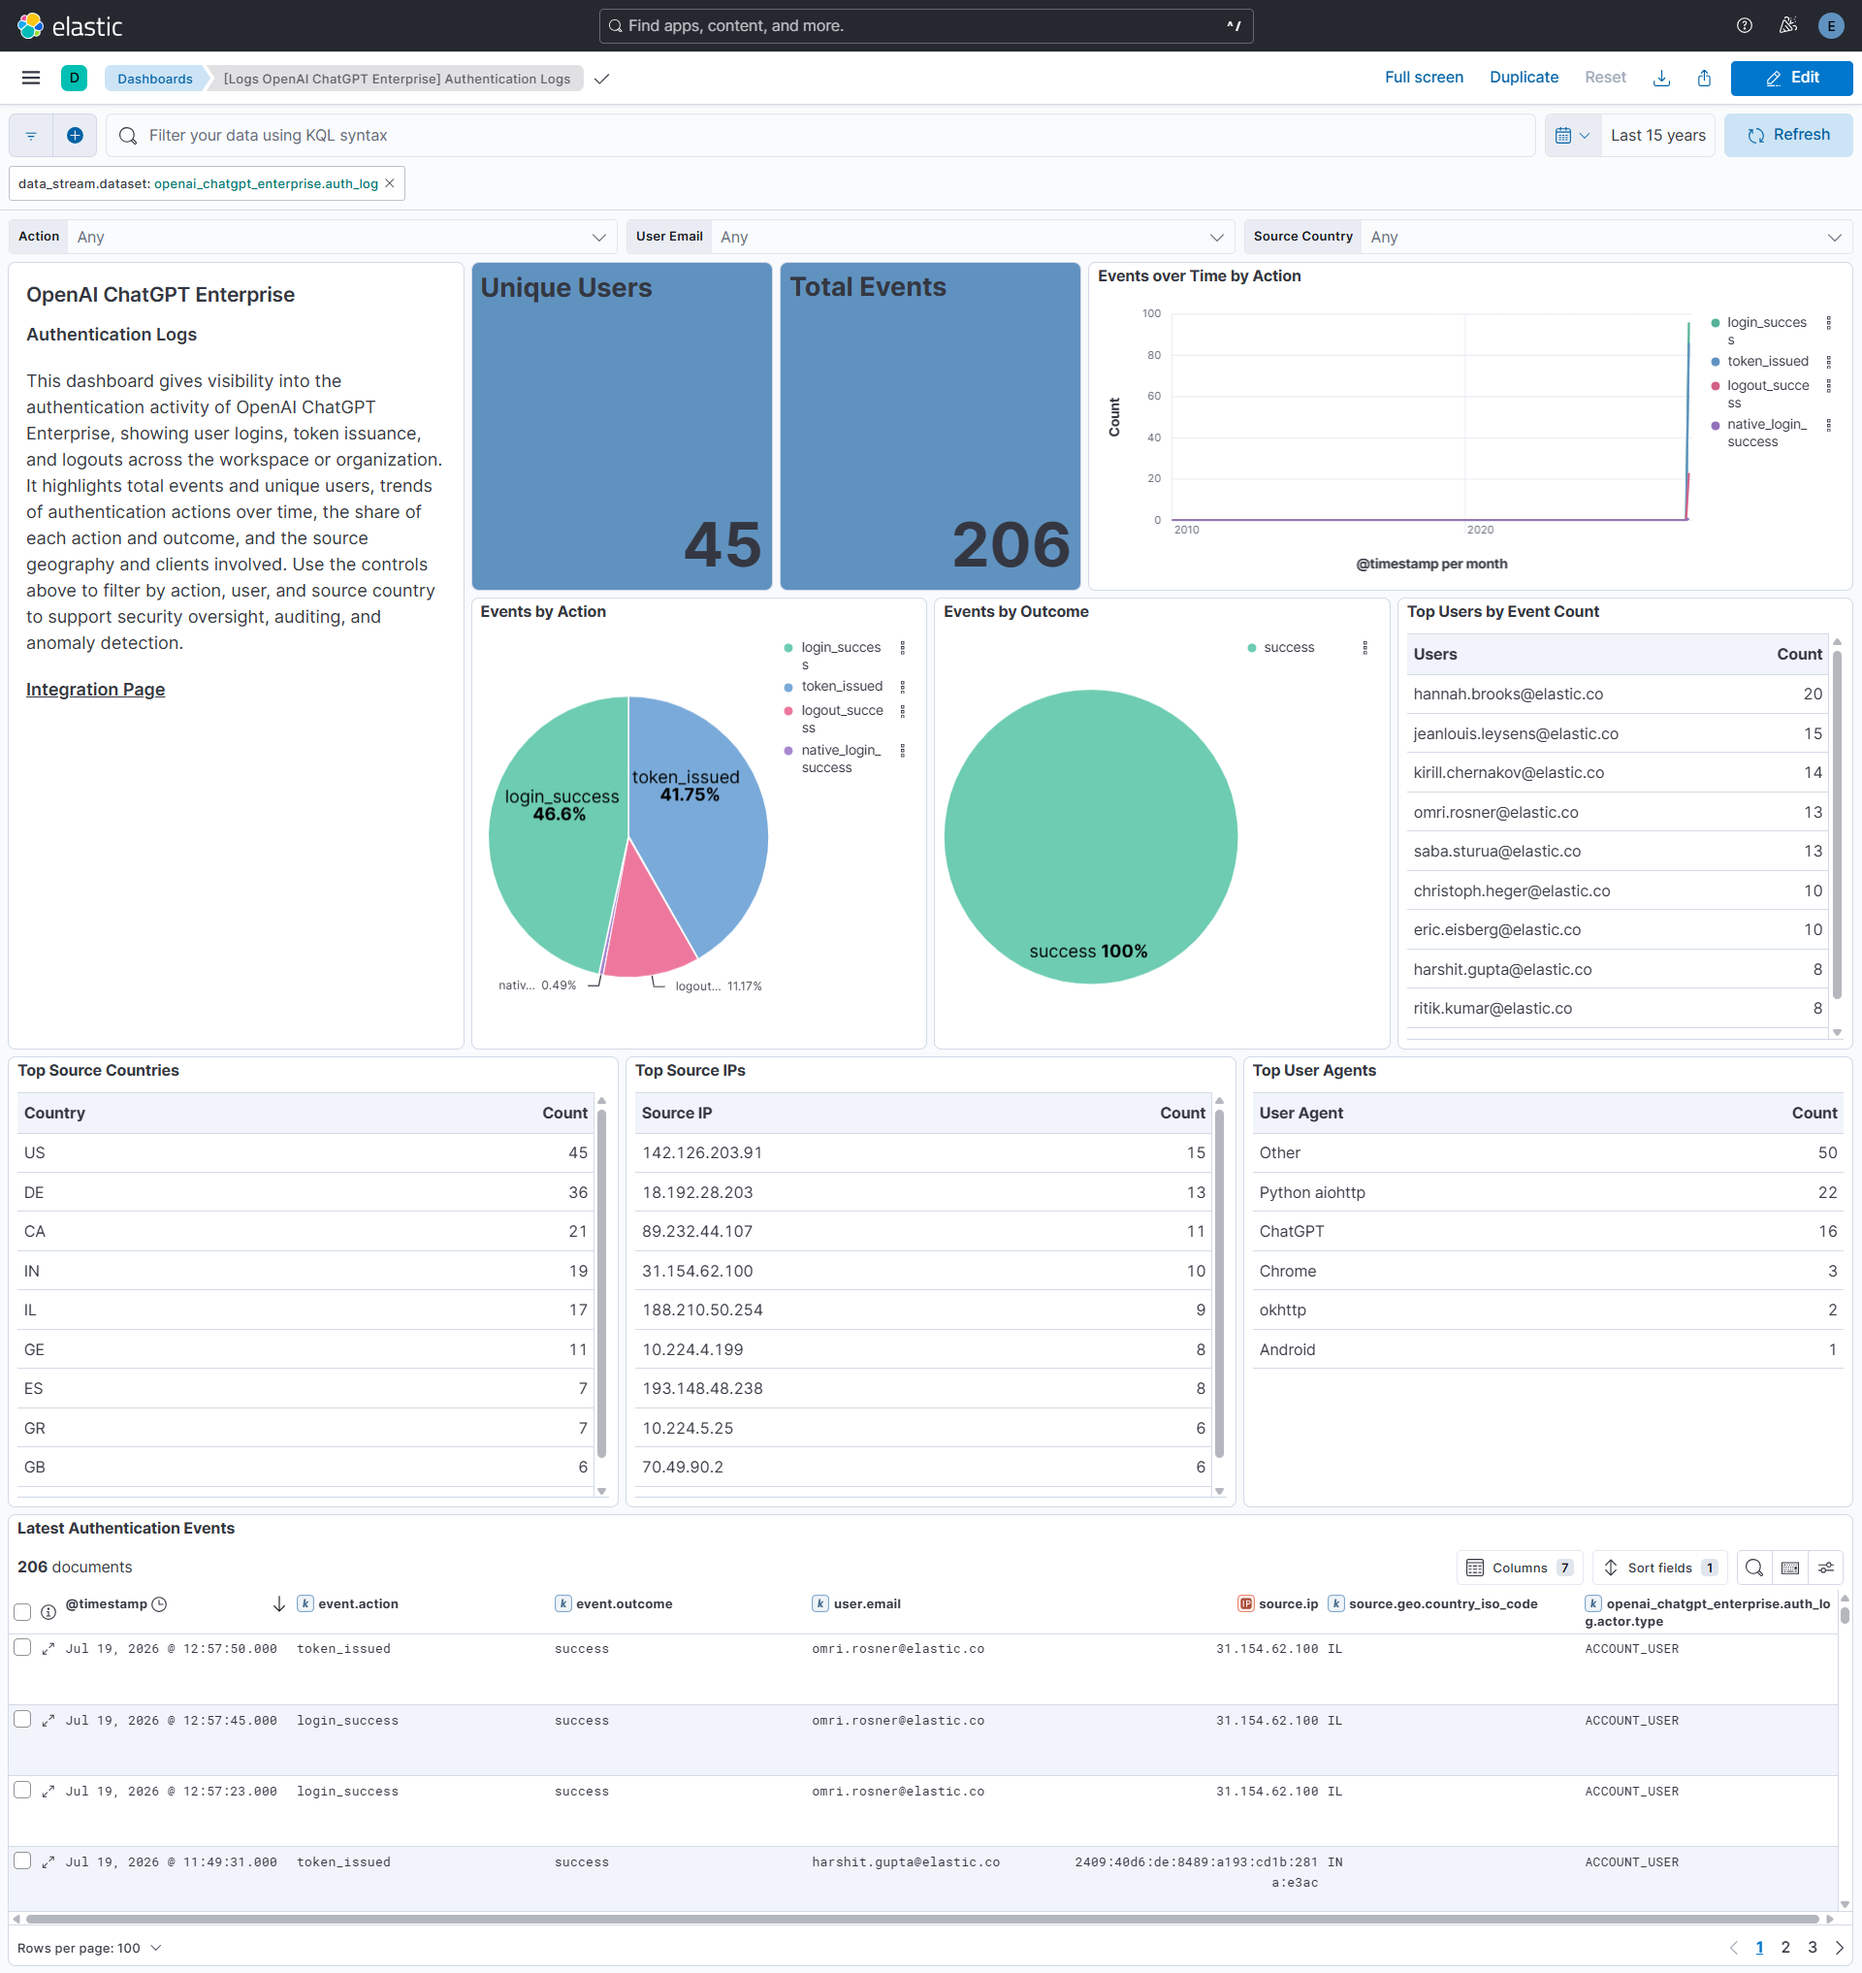
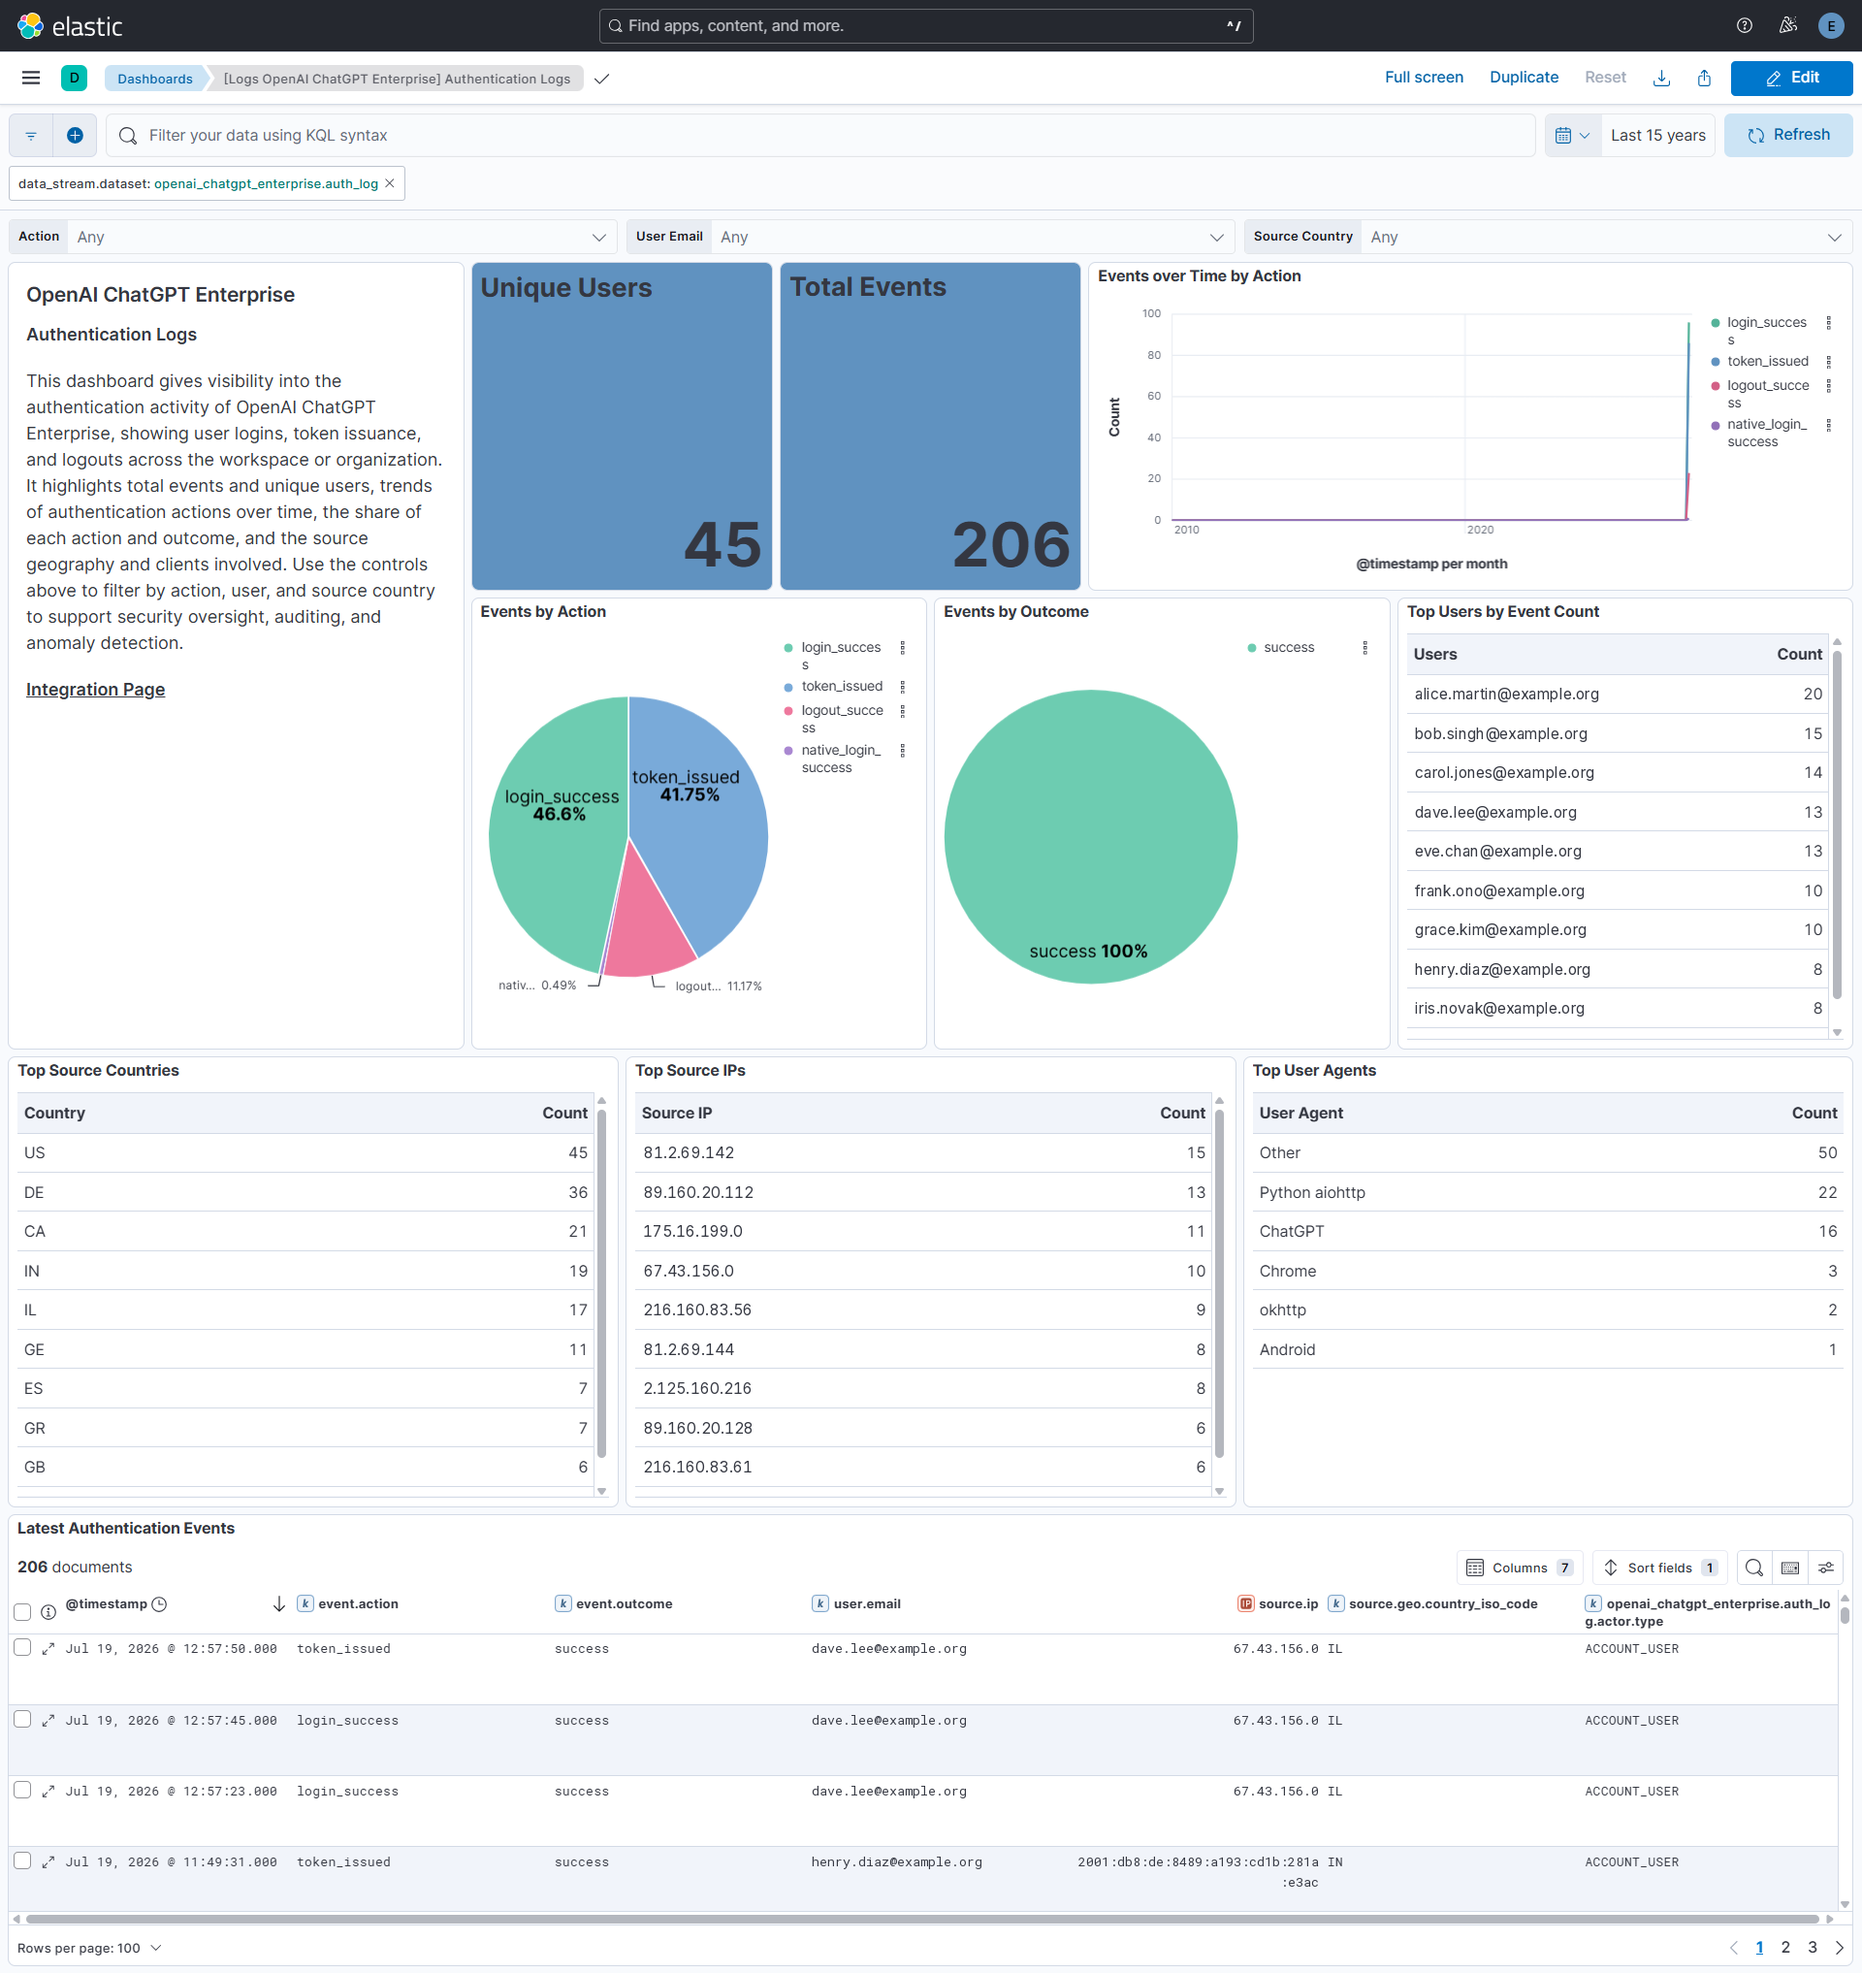
Resolved @efd6 and @kcreddy comments.

diff --git a/packages/openai_chatgpt_enterprise/docs/README.md b/packages/openai_chatgpt_enterprise/docs/README.md
@@ -402,22 +402,22 @@ An example event for `app_log` looks as following:
 {
     "@timestamp": "2026-07-15T15:39:18.154Z",
     "agent": {
-        "ephemeral_id": "77bab2c8-ece5-4806-b34b-46c332d0f096",
-        "id": "b424493d-5436-465f-b101-70cd421d2532",
-        "name": "elastic-agent-94135",
+        "ephemeral_id": "7e6eae22-73d9-4583-9118-52bd111c571c",
+        "id": "a55b9626-c44b-4de5-9bf6-0d9935deeaef",
+        "name": "elastic-agent-16522",
         "type": "filebeat",
         "version": "8.19.0"
     },
     "data_stream": {
         "dataset": "openai_chatgpt_enterprise.app_log",
-        "namespace": "57924",
+        "namespace": "99788",
         "type": "logs"
     },
     "ecs": {
         "version": "9.5.0"
     },
     "elastic_agent": {
-        "id": "b424493d-5436-465f-b101-70cd421d2532",
+        "id": "a55b9626-c44b-4de5-9bf6-0d9935deeaef",
         "snapshot": false,
         "version": "8.19.0"
     },
@@ -428,7 +428,7 @@ An example event for `app_log` looks as following:
         ],
         "dataset": "openai_chatgpt_enterprise.app_log",
         "id": "3f1a9c02-1111-4a11-8b11-000000000001",
-        "ingested": "2026-08-19T11:33:17Z",
+        "ingested": "2026-08-26T06:44:59Z",
         "kind": "event",
         "original": "{\"event_id\":\"3f1a9c02-1111-4a11-8b11-000000000001\",\"type\":\"APP_LOG\",\"principal\":{\"id\":\"11111111-2222-3333-4444-555555555555\",\"type\":\"CHATGPT_WORKSPACE\"},\"actor\":{\"type\":\"ACCOUNT_USER\",\"user_id\":\"user-Aaaaaaaaaaaaaaaaaaaaaaa1\",\"user_email\":\"alice.martin@example.org\"},\"timestamp\":\"2026-07-15T15:39:18.154524Z\",\"app_id\":\"asdk_app_1111111111111111aaaa\",\"app_name\":\"Slack\",\"app_type\":\"MCP\",\"conversation_id\":\"c-1111-aaaa-2222-bbbb\",\"log_type\":\"request\",\"input\":{\"query\":\"in:general after:2026-07-14\",\"limit\":20,\"include_bots\":true,\"sort\":\"timestamp\",\"sort_dir\":\"desc\",\"response_format\":\"concise\",\"_meta\":{\"openai/userAgent\":\"ChatGPT/1.2026.183 (Mac OS X 26.5.2; arm64; build 1783607847)\",\"openai/locale\":\"en-GB\",\"openai/userLocation\":{\"city\":\"London\",\"region\":\"England\",\"country\":\"GB\",\"timezone\":\"Europe/London\",\"latitude\":\"51.50853\",\"longitude\":\"-0.12574\"},\"timezone\":\"Europe/London\",\"openai/subject\":\"v1/mock-subject-aaaaaaaaaaaaaaaa\",\"openai/session\":\"v1/mock-session-aaaaaaaaaaaaaaaa\",\"openai/organization\":\"v1/mock-org-aaaaaaaaaaaaaaaa\"}}}",
         "type": [
